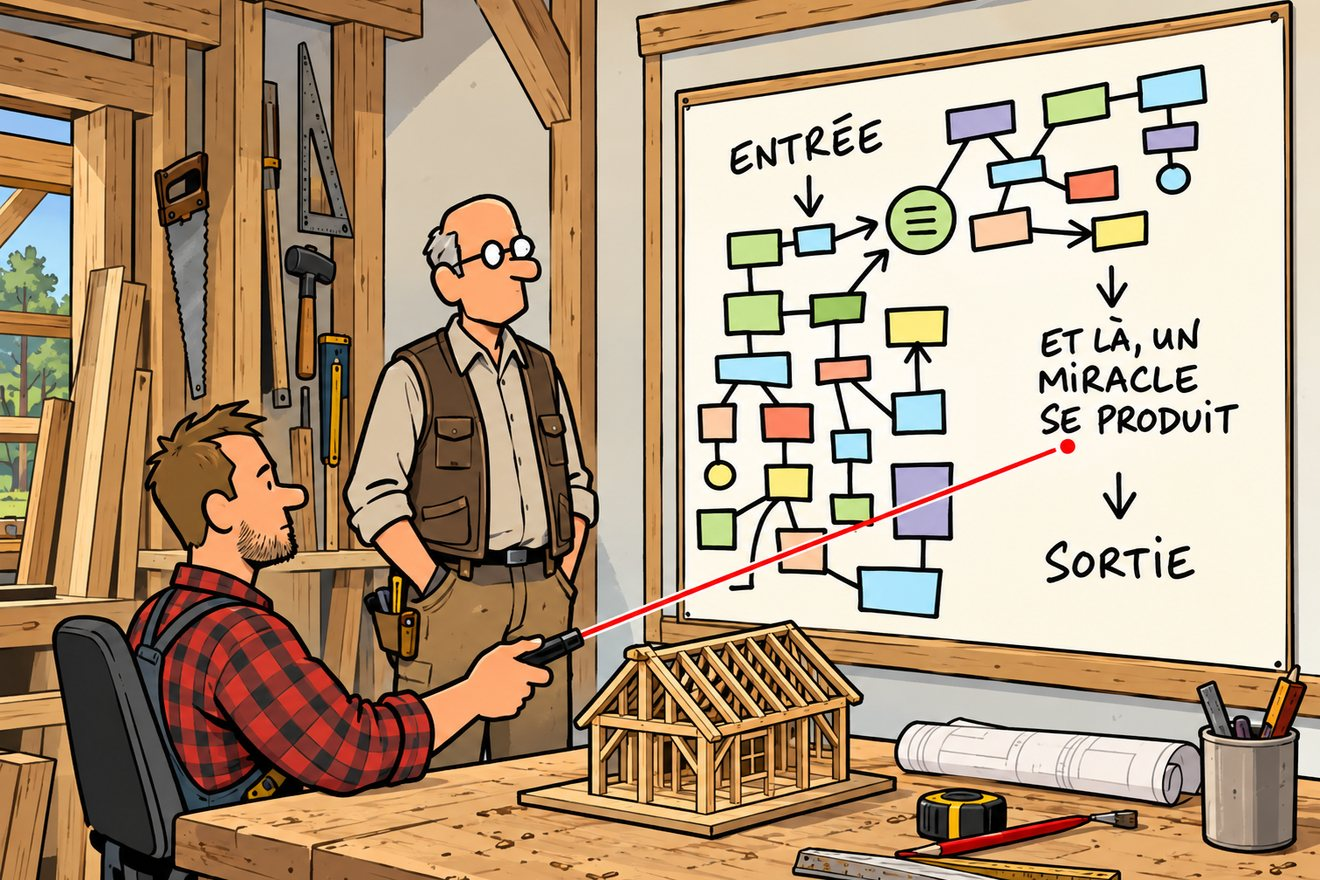
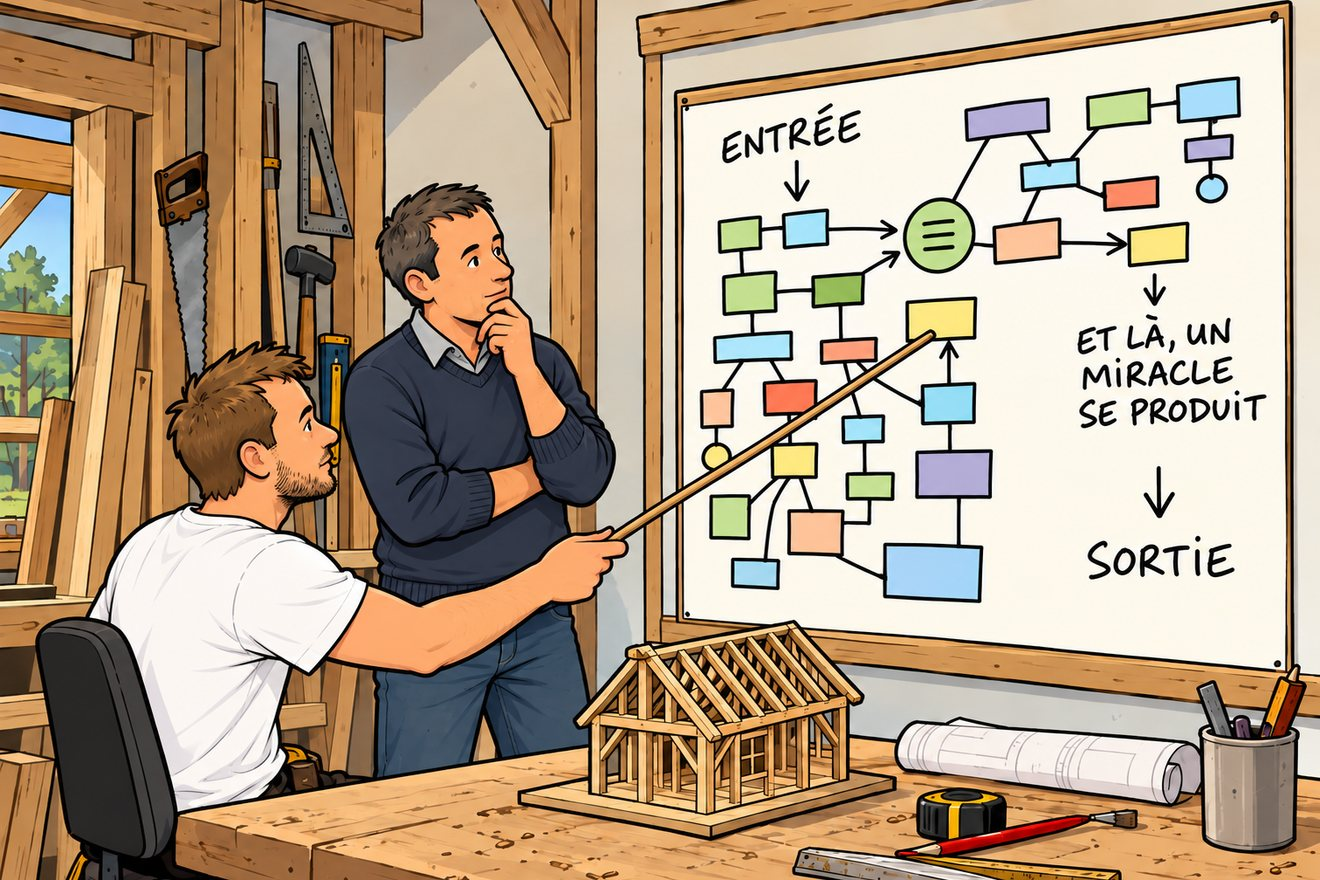
v2 : nouvelles illustrations pour les cartes « plans » et « mairie »
Remplacees par course.png (liste de materiel) et mairie.png (organigramme),
recadrees en 3:2 comme les autres. Textes alternatifs mis a jour.

diff --git a/v1.html b/v1.html
@@ -159,7 +159,7 @@
         </article>
 
         <article class="card">
-          <img class="card-icon" src="assets/img/cartes/plans.jpg" alt="Lou présentant plans et feuille de débit à un client" loading="lazy">
+          <img class="card-icon" src="assets/img/cartes/plans.jpg" alt="Lou détaillant une liste de matériel à une cliente devant une charpente en cours" loading="lazy">
           <h3>Conseil, plans, débit &amp; pré-commande</h3>
           <p class="card-for">Pour les particuliers qui rénovent eux-mêmes</p>
           <p>

diff --git a/v3.html b/v3.html
@@ -86,7 +86,7 @@
               matériaux au juste volume. Le chantier reste le vôtre, sans les erreurs qui
               coûtent cher.
             </p>
-            <img class="entry-photo" src="assets/img/cartes/plans.jpg" alt="Lou présentant plans et feuille de débit à un client" loading="lazy">
+            <img class="entry-photo" src="assets/img/cartes/plans.jpg" alt="Lou détaillant une liste de matériel à une cliente devant une charpente en cours" loading="lazy">
           </div>
         </div>
         <div class="entry">

diff --git a/v2.html b/v2.html
@@ -108,7 +108,7 @@
 
         <article class="dish">
           <div class="dish-ico">
-            <img src="assets/img/cartes/plans.jpg" alt="Lou présentant plans, feuille de débit et pré-commande à un client" loading="lazy">
+            <img src="assets/img/cartes/plans.jpg" alt="Lou détaillant une liste de matériel à une cliente devant une charpente en cours" loading="lazy">
           </div>
           <div class="dish-txt">
             <h3>Vos plans et vos bois, si vous faites les travaux vous-même</h3>
